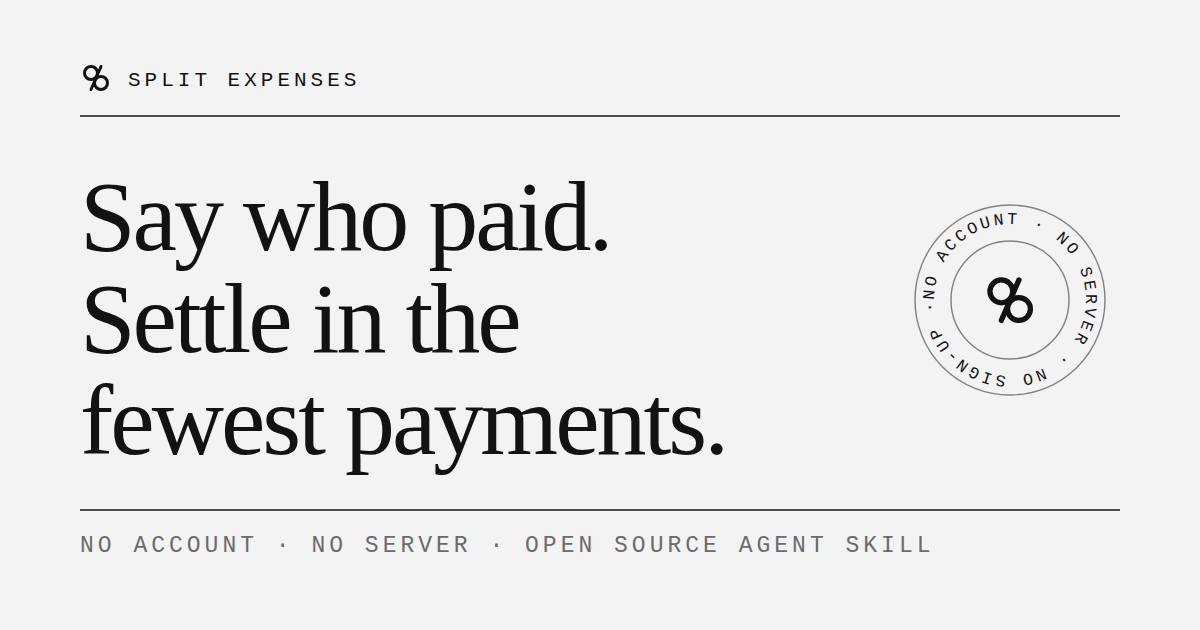
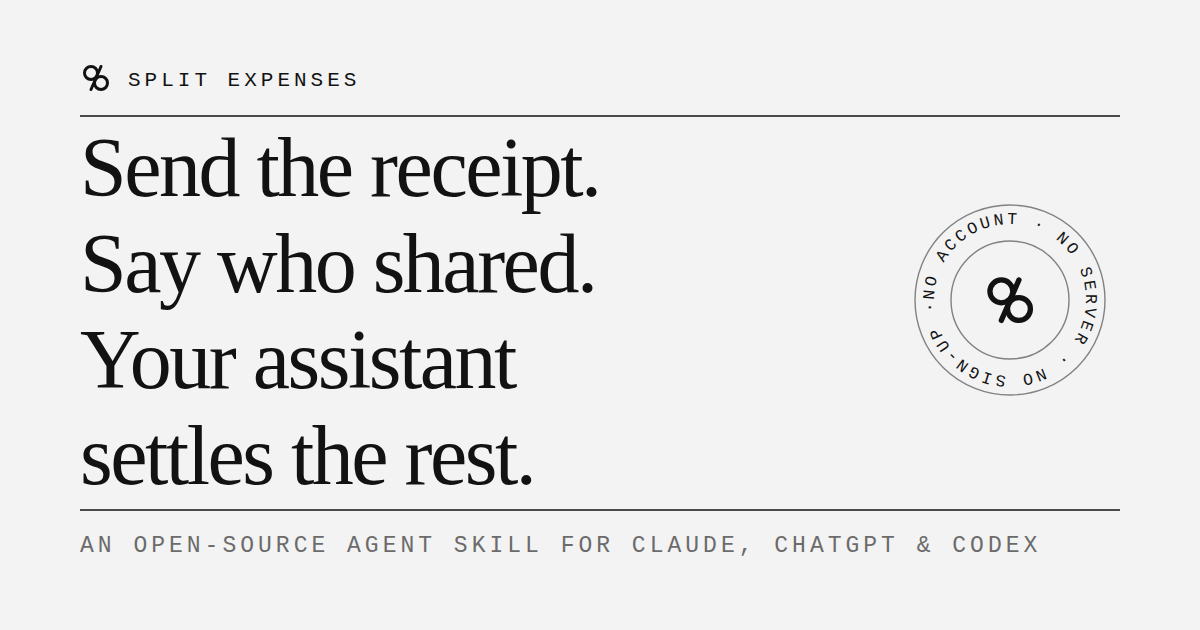
Rewrite the pitch around the agent flow, receipts first
The old headline — say who paid, settle in the fewest payments — could
have described any expense app. The new one is the actual flow: send the
receipt, say who shared, your assistant settles the rest. Receipt photos
now lead the page instead of appearing halfway down it, chapter two
sells the outcome (say "settle up," it's done) and moves the
provable-minimum claim into the body, and the social card, title, and
meta descriptions carry the same copy.

Changed region(s): [[0.0617, 0.2111, 0.6167, 0.7841], [0.3392, 0.8444, 0.8633, 0.8746], [0.0617, 0.8444, 0.3083, 0.8746]]

diff --git a/site/index.html b/site/index.html
@@ -5,13 +5,13 @@
     <meta name="viewport" content="width=device-width, initial-scale=1">
     <meta
       name="description"
-      content="Say who paid, in plain language, and settle in the fewest possible payments. An open-source agent skill for Claude, ChatGPT, and Codex. No account, no server."
+      content="Send the receipt photo, say who shared, and your assistant keeps the group’s running balance in the chat — then settles everyone up in the fewest possible payments. An open-source agent skill for Claude, ChatGPT, and Codex. No app, no account, no server."
     >
     <meta name="theme-color" content="#f3f3f3">
-    <meta property="og:title" content="Split Expenses — say who paid, settle in the fewest payments">
+    <meta property="og:title" content="Split Expenses — send the receipt, your assistant settles the rest">
     <meta
       property="og:description"
-      content="An open-source agent skill that keeps a zero-sum balance table in your conversation and settles it in the fewest possible payments."
+      content="An open-source agent skill that reads receipt photos, keeps a zero-sum balance table in your conversation, and settles the group in the provably fewest payments."
     >
     <meta property="og:type" content="website">
     <meta property="og:url" content="https://splitexpenses.ai/">
@@ -30,10 +30,10 @@
     <meta property="og:image:height" content="630">
     <meta
       property="og:image:alt"
-      content="Split Expenses — say who paid, settle in the fewest payments"
+      content="Split Expenses — send the receipt, say who shared, your assistant settles the rest"
     >
     <meta name="twitter:card" content="summary_large_image">
-    <title>Split Expenses — say who paid, settle in the fewest payments</title>
+    <title>Split Expenses — send the receipt, your assistant settles the rest</title>
     <link rel="icon" href="./favicon.svg" type="image/svg+xml">
     <link rel="stylesheet" href="./styles.css">
     <script>document.documentElement.classList.add("js");</script>
@@ -61,12 +61,13 @@
     <main id="main">
       <section class="hero">
         <div class="wrap">
-          <p class="kicker">Open-source agent skill · MIT</p>
-          <h1>Say who paid.<br>Settle in the<br>fewest payments.</h1>
+          <p class="kicker">An agent skill for Claude, ChatGPT &amp; Codex</p>
+          <h1>Send the receipt.<br>Say who shared.<br>Your assistant<br>settles the rest.</h1>
           <p class="lede">
-            Describe a shared cost the way you'd say it out loud. Your assistant
-            keeps the running balance, and works out the smallest set of payments
-            that makes everyone even.
+            A small open-source skill that turns your assistant into the group’s
+            bookkeeper. Receipts and plain sentences go in; a running balance
+            table comes back, right in the chat. The trip ends the way it
+            should: everyone square, in the fewest payments the numbers allow.
           </p>
 
           <div class="actions">
@@ -79,9 +80,10 @@
           </div>
 
           <ul class="facts">
+            <li>No app to join</li>
             <li>No account</li>
             <li>No server</li>
-            <li>Two files</li>
+            <li>MIT</li>
           </ul>
         </div>
       </section>
@@ -91,10 +93,10 @@
           <p class="chapter-num"><span class="num">01</span> In conversation</p>
           <h2 id="conversation-title">Just say what happened.</h2>
           <p>
-            No forms, no categories, nobody else to onboard. Hand over a photo of the
-            receipt, add the part a receipt can't know — who was in on the wine — and
-            the table comes back updated. It always sums to zero, so a mistake has
-            nowhere to hide.
+            No forms, no categories, nobody else to onboard. Hand your assistant the
+            receipt photo, add the part a photo can’t know — who was in on the wine —
+            and the table comes back updated. It always sums to zero, so a mistake
+            has nowhere to hide.
           </p>
 
           <figure class="plate" id="fig-ledger" data-figure>
@@ -191,11 +193,12 @@
       <section class="chapter" id="settlement" aria-labelledby="settlement-title">
         <div class="wrap">
           <p class="chapter-num"><span class="num">02</span> At the end of it</p>
-          <h2 id="settlement-title">The fewest payments that exist.</h2>
+          <h2 id="settlement-title">Say “settle up.” It’s done.</h2>
           <p>
-            When the trip is over, ask it to settle up. You get the shortest list of
-            payments that clears everyone — fewer payments than there are people,
-            every time.
+            Back comes the shortest list of payments that can clear the group — not
+            a good guess at it, the provable minimum. Money moves straight from
+            whoever owes to whoever’s owed, in fewer payments than there are people,
+            every time. The solver even checks its own arithmetic before you see it.
           </p>
 
           <figure class="plate" id="fig-settle" data-figure>
